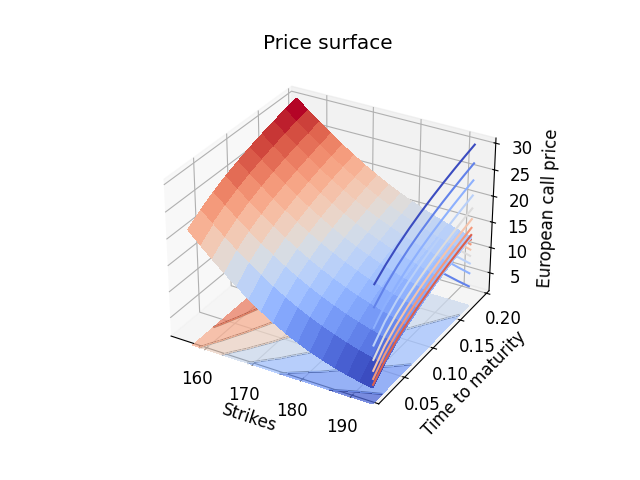
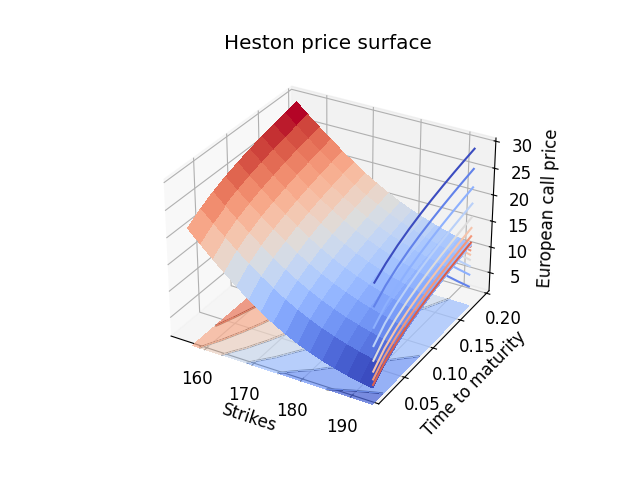
generated new model price and error surfaces

diff --git a/calibrate.cpp b/calibrate.cpp
@@ -57,6 +57,7 @@ namespace Calibrate
 		// we store this surface (initialized as a copy of the true surface) 
 		// to be able to plot it later (and compare it to the true surface)
 		LabeledTable modelPriceSurface{ priceSurface };
+		modelPriceSurface.m_tableName = "Heston price surface";
 		LabeledTable errorSurface{ priceSurface };
 		errorSurface.m_tableName = "Relative squared error";
 		errorSurface.m_tableLabel = "Error";
@@ -69,9 +70,9 @@ namespace Calibrate
 		std::vector<double> initialVariances{ np::linspace<double>(0.5,0.5,1) };
 		*/
 
-		std::vector<double> reversionRates{ np::linspace<double>(0.025,0.025,1) };
+		std::vector<double> reversionRates{ np::linspace<double>(0.2,0.2,1) };
 		std::vector<double> longVariances{ np::linspace<double>(1.,1.,1) };
-		std::vector<double> volVols{ np::linspace<double>(5.4,5.4,1) };
+		std::vector<double> volVols{ np::linspace<double>(7.4,7.4,1) };
 		std::vector<double> correlations{ np::linspace<double>(0.05,0.05,1) };
 		std::vector<double> initialVariances{ np::linspace<double>(0.6,0.6,1) };
 
@@ -159,6 +160,7 @@ namespace Calibrate
 		// we store this surface (initialized as a copy of the true surface) 
 		// to be able to plot it later (and compare it to the true surface)
 		LabeledTable modelPriceSurface{ priceSurface };
+		modelPriceSurface.m_tableName = "BSM price surface";
 		LabeledTable errorSurface{ priceSurface };
 		errorSurface.m_tableName = "Relative squared error";
 		errorSurface.m_tableLabel = "Error";
